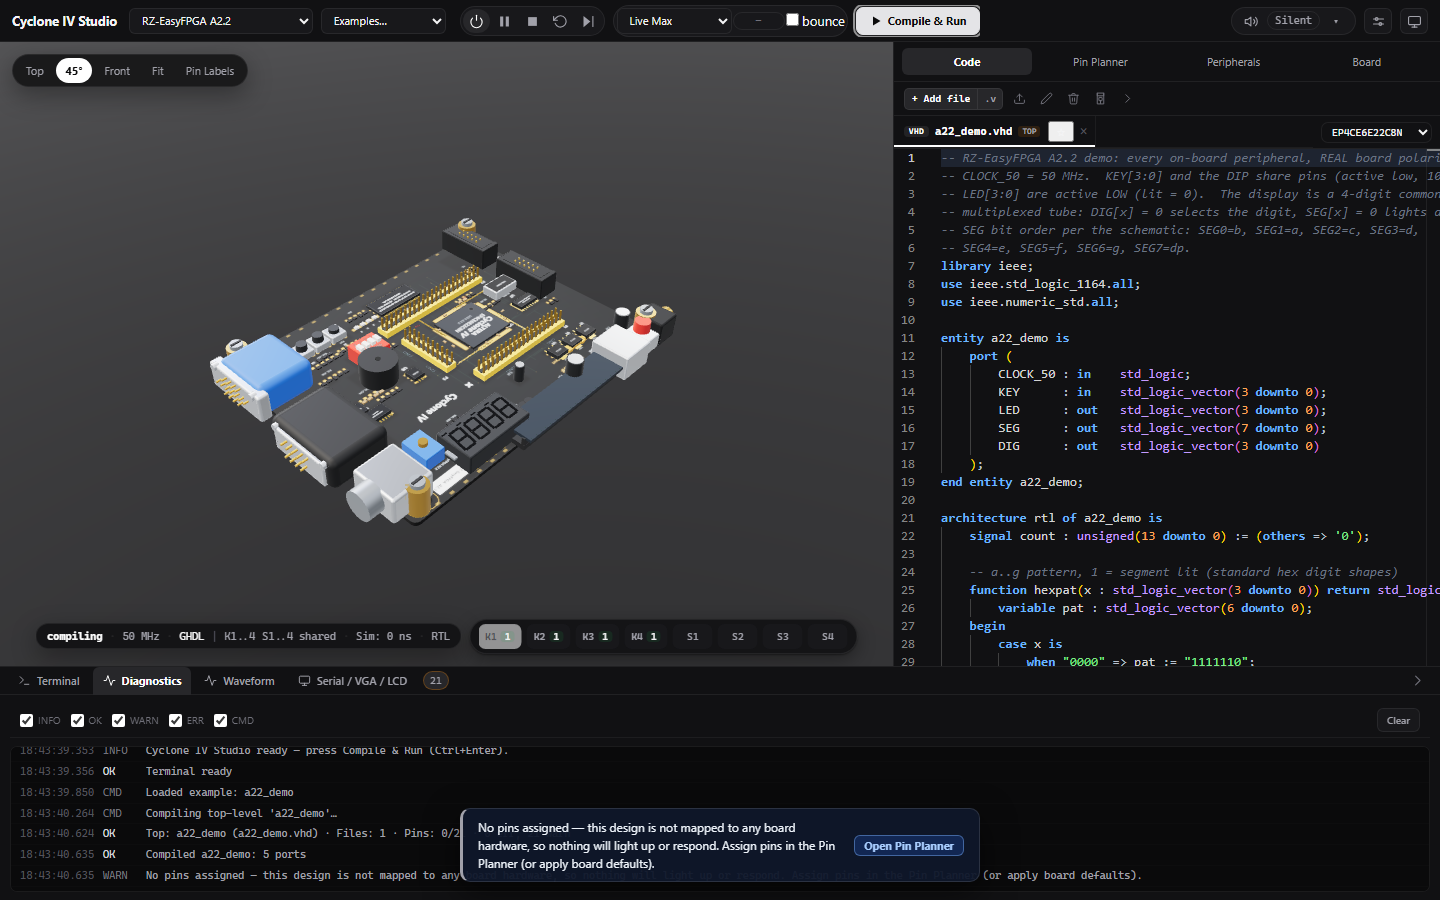
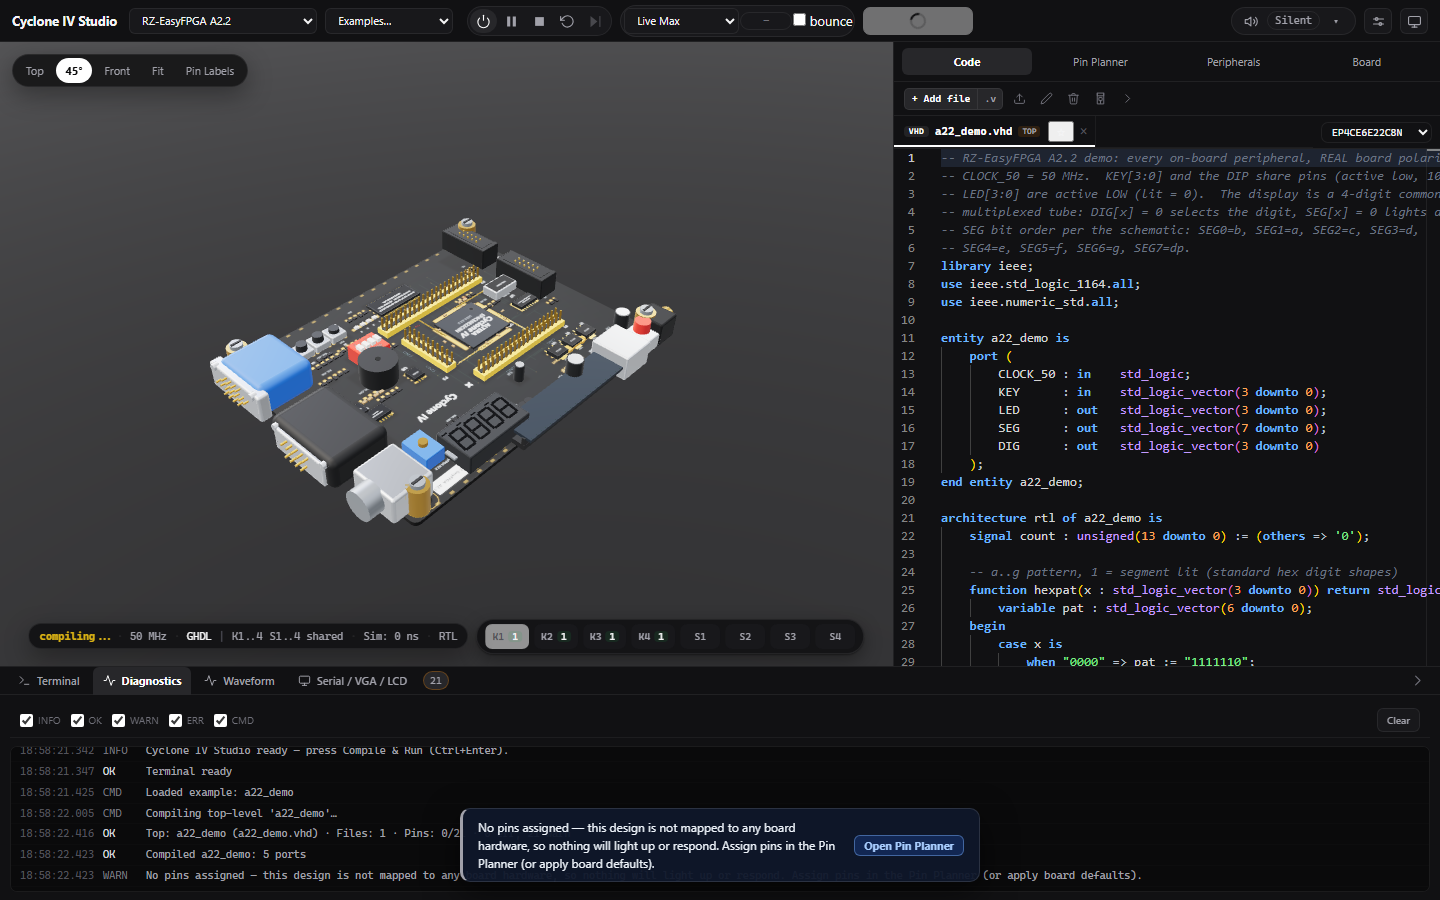
Compile animations: spinner + sheen on Compile & Run, pulsing HUD status
While compiling, the Compile & Run button now shows a dark spinner with a light sheen sweeping across it (the old white spinner was invisible on the white button), and the HUD status chip pulses with animated ellipsis. The running state is set when the compile starts (not only when the sim starts) and cleared on every failure path, so the animation always matches the real work.

diff --git a/frontend/src/styles.css b/frontend/src/styles.css
@@ -1221,9 +1221,27 @@ input[type="checkbox"], input[type="radio"] { accent-color: #ffffff; }
     height: 28px; padding: 0 13px; display: inline-flex; align-items: center; gap: 6px;
     background: #ffffff; color: #0a0a0b; border: 1px solid #ffffff;
     border-radius: 7px; font-size: 11px; font-weight: 700; box-shadow: none;
+    position: relative; overflow: hidden;
 }
 .tb-compile:hover { background: #e4e4e7; }
 .tb-compile .icon { width: 12px; height: 12px; }
+/* Compiling: dark spinner + a light sheen sweeping across the button. */
+.tb-compile.running {
+    color: transparent;
+    background: linear-gradient(100deg, #ffffff 0%, #ffffff 38%, #dbe4ff 50%, #ffffff 62%, #ffffff 100%);
+    background-size: 240% 100%;
+    animation: compile-sheen 1.15s linear infinite;
+}
+.tb-compile.running .icon { opacity: 0; }
+.tb-compile.running::after {
+    content: ""; position: absolute; inset: 0; margin: auto; width: 12px; height: 12px;
+    border: 2px solid rgba(10, 10, 11, 0.22); border-top-color: #0a0a0b; border-radius: 50%;
+    animation: spin 0.7s linear infinite;
+}
+@keyframes compile-sheen {
+    0% { background-position: 130% 0; }
+    100% { background-position: -130% 0; }
+}
 .tb-audio-pill {
     position: relative; display: flex; align-items: center; gap: 5px;
     padding: 2px 8px; background: #18181b; border: var(--hair);
@@ -1304,6 +1322,28 @@ input[type="checkbox"], input[type="radio"] { accent-color: #ffffff; }
 #stats.stats-block, #stats.stats-block.stats-pill { pointer-events: none; }
 #stats .hud-item { color: #a1a1aa; white-space: nowrap; }
 #stats .hud-live { color: #ffffff; font-weight: 650; }
+/* Compiling: amber pulse + animated ellipsis on the HUD status. */
+#stats .hud-live.compiling {
+    color: #facc15;
+    animation: hud-compiling-pulse 1.1s ease-in-out infinite;
+}
+#stats .hud-live.compiling::after {
+    content: "";
+    display: inline-block;
+    width: 1.4em;
+    text-align: left;
+    animation: hud-compiling-dots 1.2s steps(4, end) infinite;
+}
+@keyframes hud-compiling-pulse {
+    0%, 100% { opacity: 1; }
+    50% { opacity: 0.45; }
+}
+@keyframes hud-compiling-dots {
+    0% { content: ""; }
+    25% { content: "."; }
+    50% { content: ".."; }
+    75% { content: "..."; }
+}
 #stats .hud-latency { color: #f4f4f5; }
 #stats .hud-bar, #stats .hud-sep { color: #52525b; }
 .board-controls, #board-controls {

diff --git a/frontend/src/main.js b/frontend/src/main.js
@@ -1011,6 +1011,7 @@ function showCompileFailure(summary, msgs, errCount, step = 1) {
     bottom.setProblems(msgs.filter((m) => m.severity === "error" || m.severity === "warning"));
     editor.setProblems(msgs);
     toolbar.setStep(step, "error");
+    toolbar.setRunning(false, false);
     setStatus("error", "compile failed");
     log(`Compile failed (${errCount} error(s)) — previous board state retained.`, "error");
     for (const e of msgs.slice(0, 12)) log(`${e.message || e} (${e.file || "project"}${e.line ? ":" + e.line : ""})`, "error");
@@ -1046,6 +1047,7 @@ async function compileAndProgram() {
     }
 
     setStatus("compiling");
+    toolbar.setRunning(true, false);   // spinner + sheen on Compile & Run
     log(`Compiling top-level '${plan.topEntity}'…`, "cmd");
     let res;
     try {
@@ -1058,6 +1060,7 @@ async function compileAndProgram() {
         });
     } catch (err) {
         toolbar.setStep(0, "error");
+        toolbar.setRunning(false, false);
         setStatus("error", err.message);
         log(`Compile request failed: ${err.message}`, "error");
         return;

diff --git a/frontend/src/ui/toolbar.js b/frontend/src/ui/toolbar.js
@@ -89,10 +89,12 @@ export function createToolbar(root, h) {
         pauseBtn.title = paused ? "Resume" : "Pause";
         stepBtn.disabled = !!running && !paused;
         // The header owns compile now (the workbench footer button is gone):
-        // mirror the run state on Compile & Run.
+        // mirror the run state on Compile & Run — spinner + sheen while the
+        // compiler/simulation is working.
         const runBtn = root.querySelector("#tb-compile");
         if (runBtn) {
             runBtn.disabled = !!running;
+            runBtn.classList.toggle("running", !!running);
             const label = runBtn.querySelector("span");
             if (label) label.textContent = running ? "Compiling\u2026" : "Compile & Run";
         }

diff --git a/frontend/src/ui/stats.js b/frontend/src/ui/stats.js
@@ -61,6 +61,7 @@ export function createStatsBlock(container) {
         el.target.textContent = fmtClock(state.simStats?.targetSpeed || state.clockHz);
         el.time.textContent = `Sim: ${fmtSimTime(state.simTimeNs)}`;
         el.status.textContent = state.status || "Live";
+        el.status.classList.toggle("compiling", state.status === "compiling");
         el.latency.textContent = state.stimulusMap ? "<1ms" : "GHDL";
         el.keys.textContent = keys ? (shared ? `K1..${keys}` : `K0..${keys - 1}`) : "K --";
         el.sw.textContent = switches
